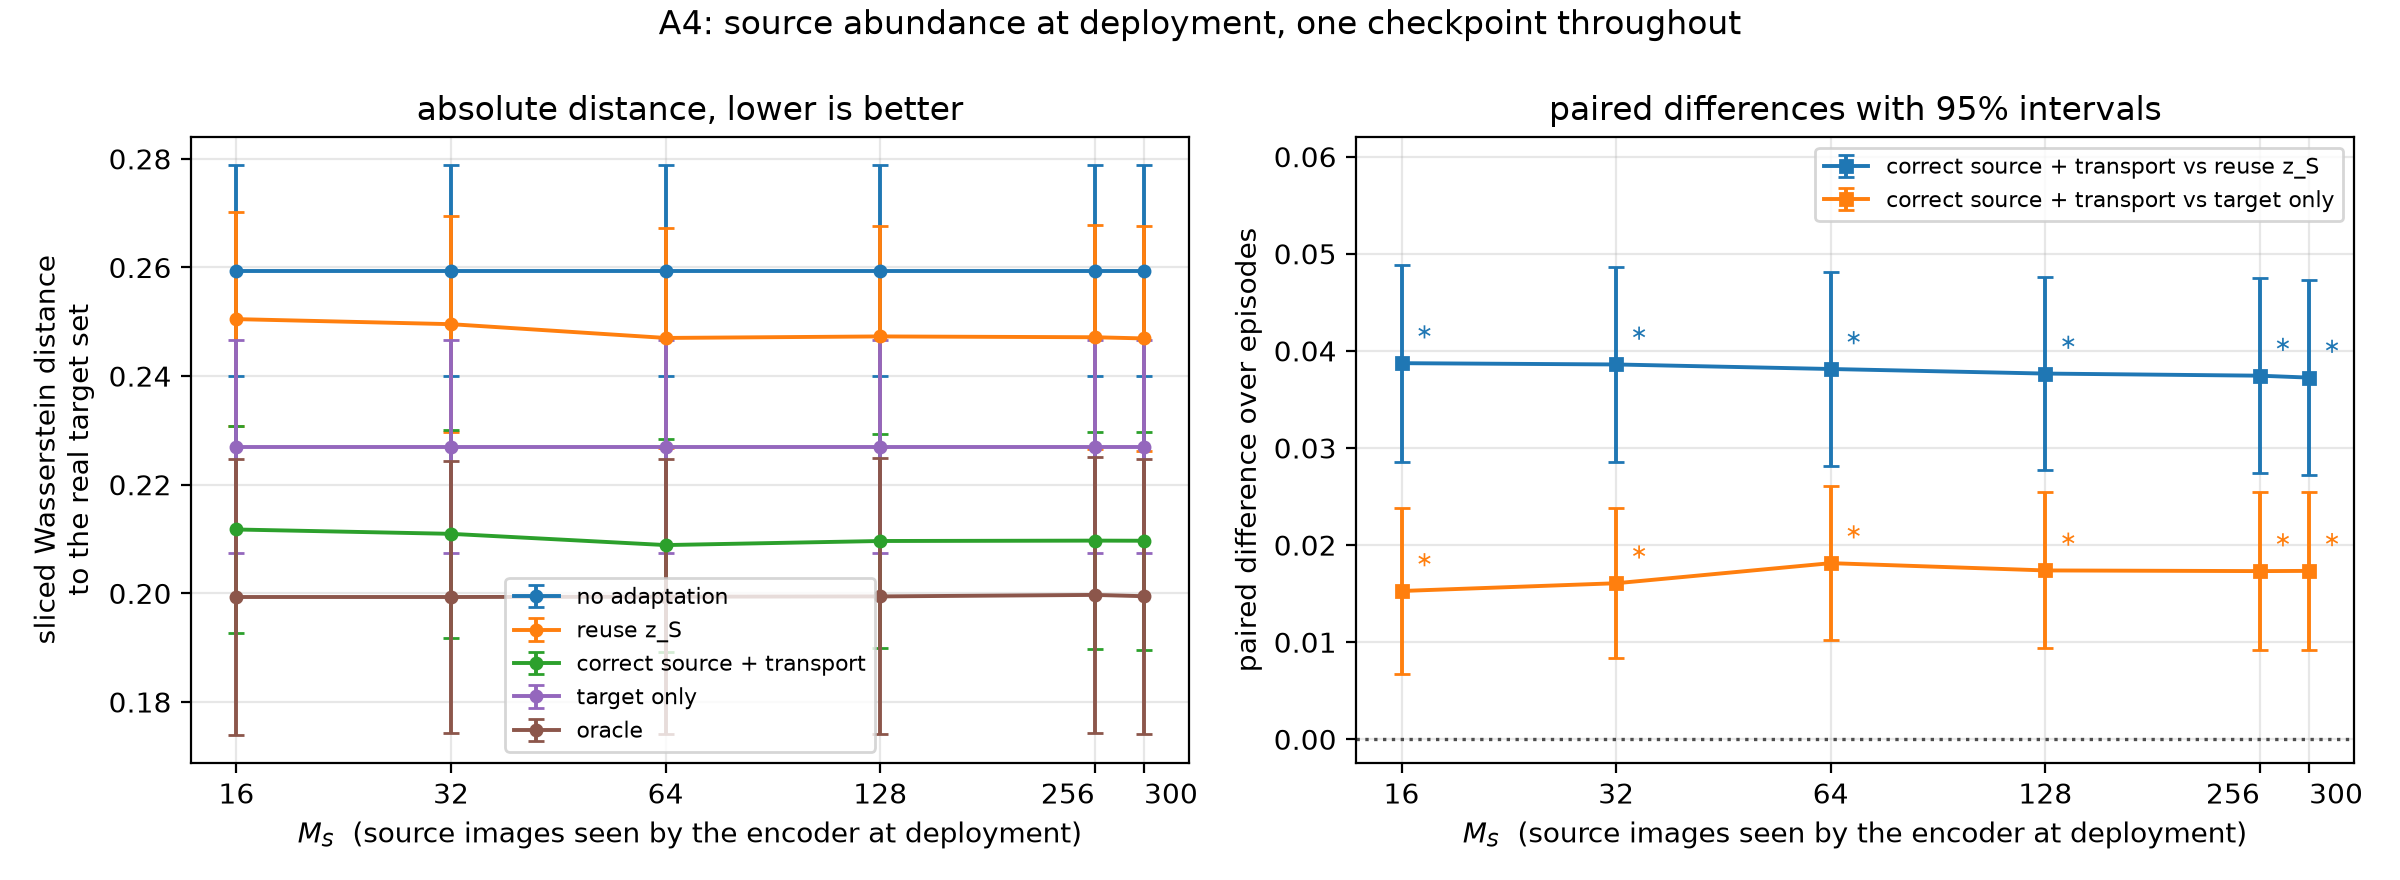
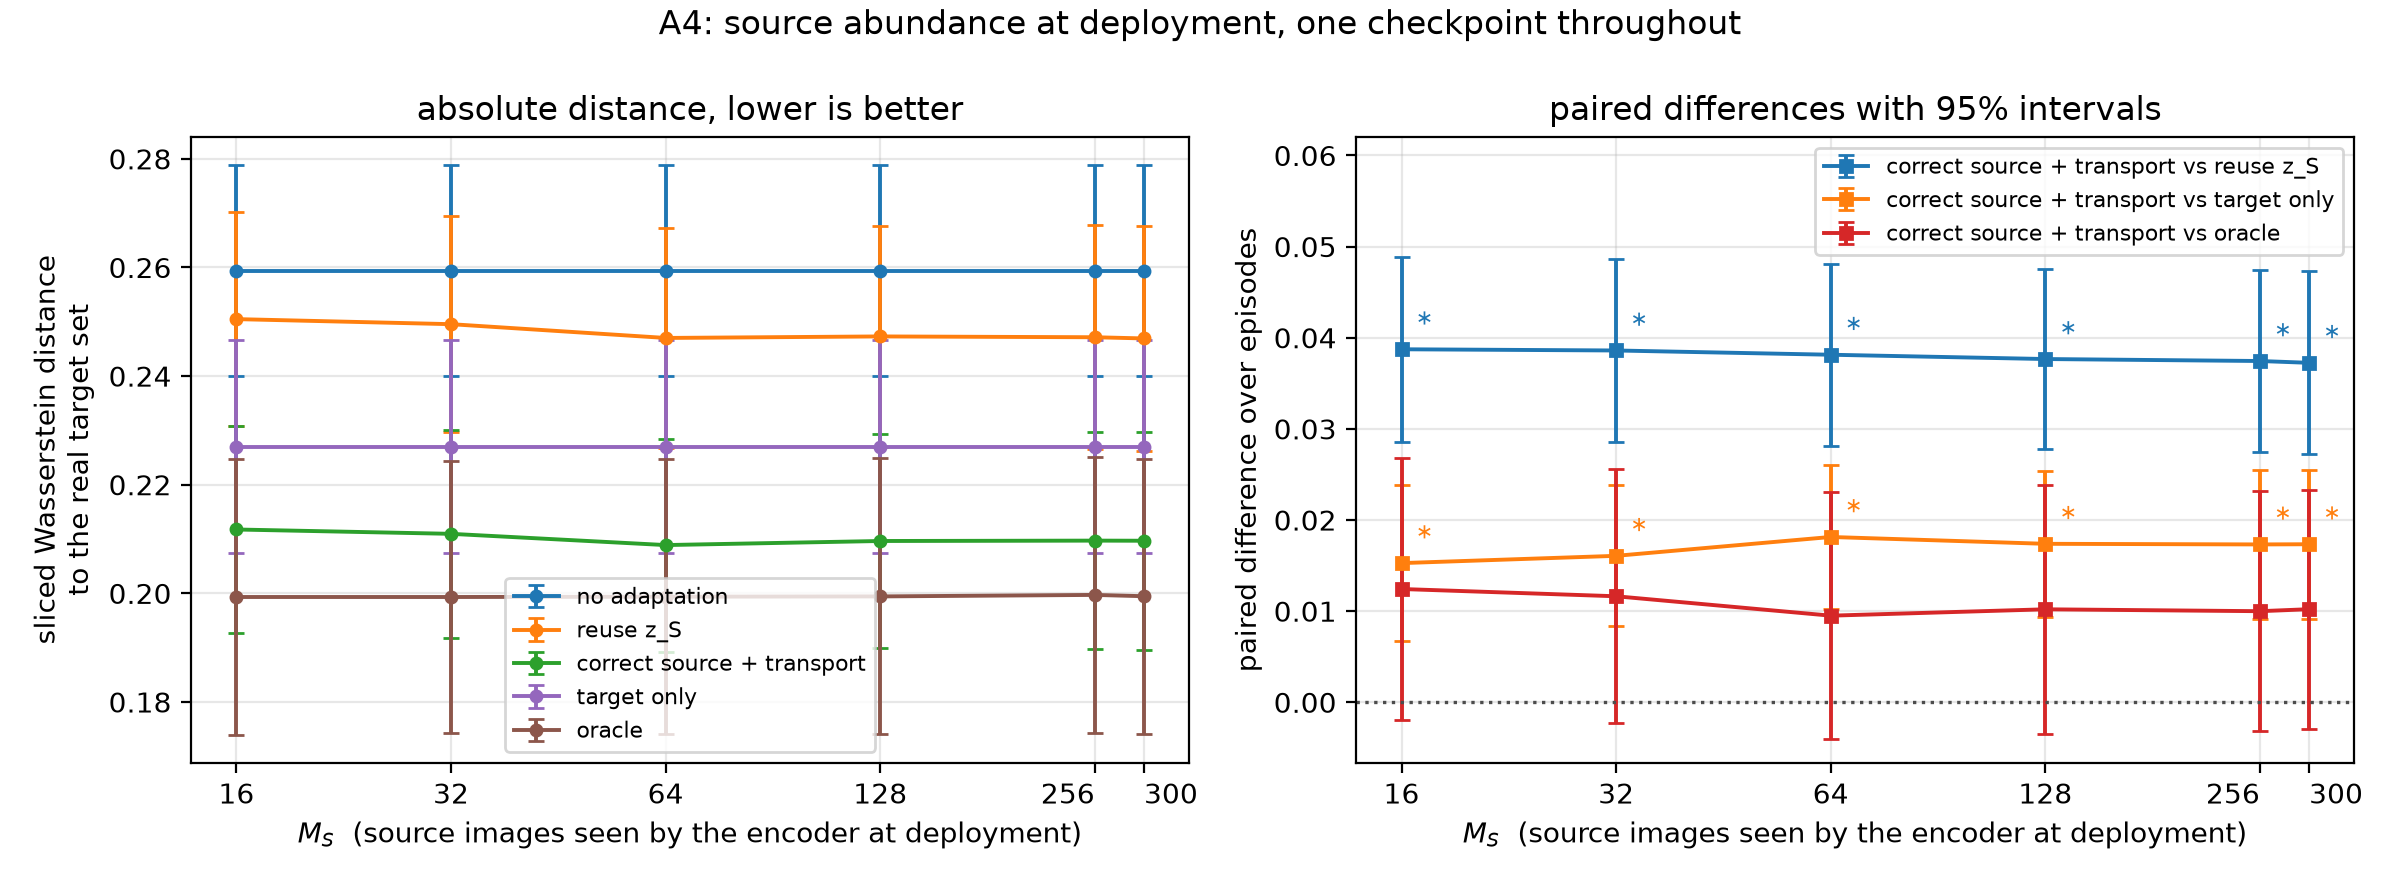
Add the unrefined transport-versus-oracle comparison to A4

diff --git a/doc/main.tex b/doc/main.tex
@@ -335,7 +335,7 @@ MLP $-$ linear (FiLM) & $0.0093\pm0.0037\sigstar$ & $0.0112\pm0.0040\sigstar$ & 
 \begin{minipage}[t]{0.98\textwidth}\centering
 \includegraphics[width=\linewidth]{figures/A4_ms_curve.png}
 \end{minipage}
-\caption{\textbf{CIFAR target and source budgets.} Top: final-test SW for correct source $+$ transport and target-adapted baselines. The main route uses no target support at any $K_T$; its small changes across budgets reflect different sampled source/query episodes and generation noise. Bottom: $K_T=1$ with nested source supports and the checkpoint trained at $M_S=64$. Left: route means. Right: paired SW differences for source-initialised adaptation (reuse $z_S$) and target-only, each minus correct source $+$ transport. Intervals are episode-level 95\% intervals, marginal for means and paired for differences. Positive differences favour the main route; superscript $^{\ast}$ marks unrounded paired intervals excluding zero.}
+\caption{\textbf{CIFAR target and source budgets.} Top: final-test SW for correct source $+$ transport and target-adapted baselines. The main route uses no target support at any $K_T$; its small changes across budgets reflect different sampled source/query episodes and generation noise. Bottom: $K_T=1$ with nested source supports and the checkpoint trained at $M_S=64$. Left: route means. Right: source-initialised adaptation (reuse $z_S$) and target-only minus correct source $+$ transport; the oracle curve instead shows correct source $+$ transport minus oracle. Positive values therefore indicate improvement over the first two baselines or a remaining gap to oracle. Intervals are episode-level 95\% intervals, marginal for means and paired for differences; superscript $^{\ast}$ marks unrounded paired intervals excluding zero.}
 \label{fig:cifar-budgets}
 \end{figure*}
 
